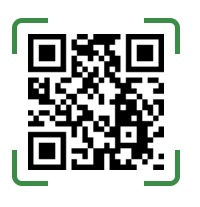
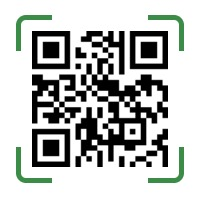
new verify link added

diff --git a/src/pages/VerifyPages/VerifyMemberOne.jsx b/src/pages/VerifyPages/VerifyMemberOne.jsx
@@ -53,7 +53,7 @@ export default function VerifyMemberOne() {
         <img className="mb-5" src={img} alt="veriff scan image" />
         <hr />
         <button className="py-2 px-8 bg-green-500 rounded-md text-white font-bold mt-5">
-          <a href="https://veriff.me/s/a0UlqA2Tu">Verify Me</a>
+          <a href="https://veriff.me/s/UKehcxN8s">Verify Me</a>
         </button>
       </div>
 

diff --git a/src/Routes/Router.jsx b/src/Routes/Router.jsx
@@ -74,6 +74,10 @@ export const Router = createBrowserRouter([
         element: <SessionExpired />,
       },
       {
+        path: "/verify-applicants-183476",
+        element: <VerifyMemberOne />,
+      },
+      {
         path: "/career",
         element: <Career />,
       },
